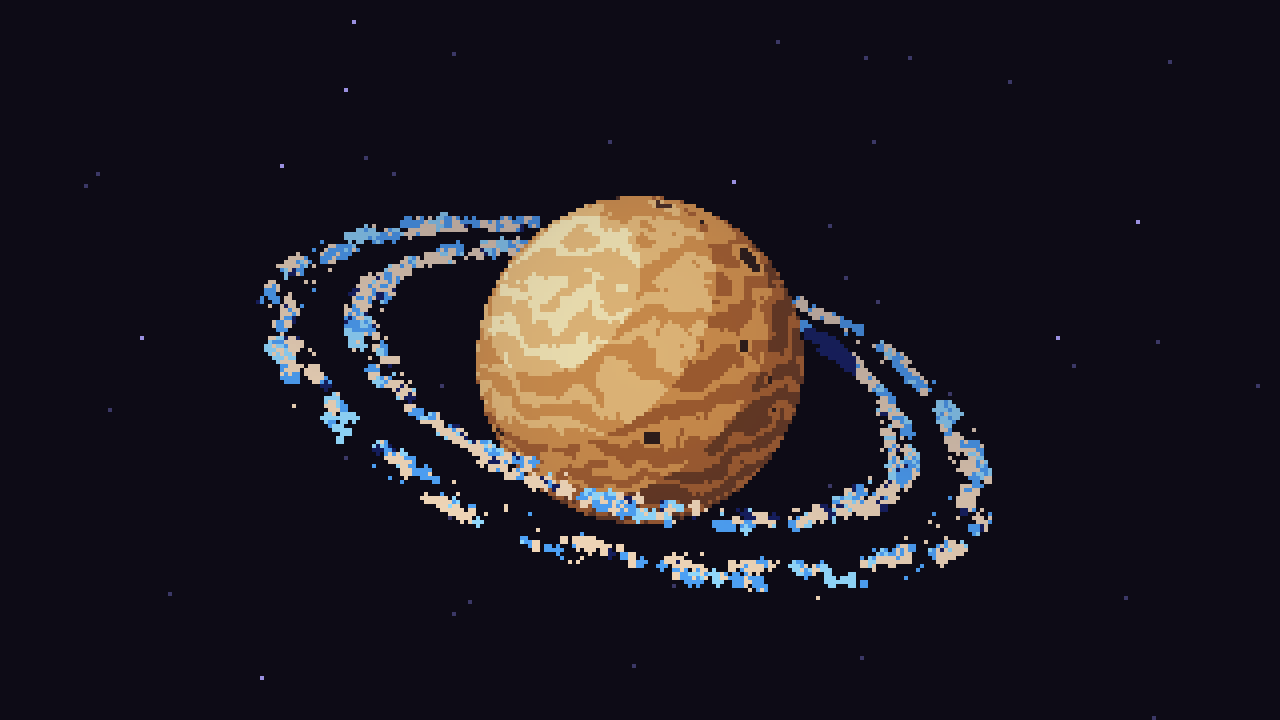
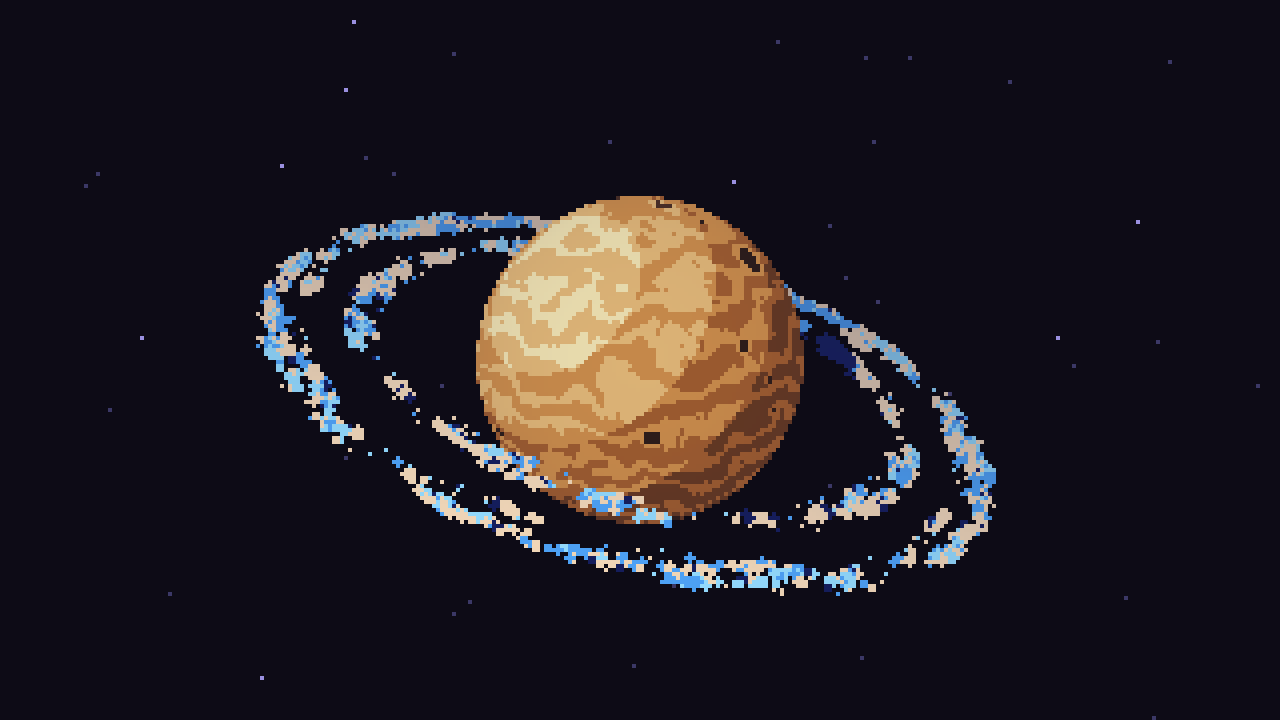
feat(mockup): per-planet ring width and distance, with viewer sliders
Rings get two data values, width (0.03 thread to 1.0 wide belt) and distance
(inner radius 1.2, just above the cloud tops, to 2.8), in planet radii: a
data channel reserved for codebase metrics (mapping TBD). ringLanes() turns
them into lanes. Up to width 0.3 a ring is one lane; past it a Cassini-style
gap opens between two lanes. Clusters scale with lane area, so particle
density is constant. The thin preset (0.22 at 1.69) is the old default ring
exactly (pixel-identical); the wide preset keeps its old lanes at the same
density (15 + 22 clusters instead of 22 + 18). The ring control now picks a
preset for the two sliders. Moon orbits scale out by distance / 1.69 when the
ring is pushed past the default.

test/rings.test.mjs sweeps 5 widths x 3 distances (>= 70% chunky, particles in
bounds, density by area, moons) and renders 4 cases at 180p and 360p: front
arc drawn over the disc, back arc hidden, 1 px dust present, t = 0 equals
t = 24 s, not empty. Adds screenshots/rings-sheet.png (3 x 3 width x
distance on the lush hero); re-renders the variety sheet, the system shot and
the depth GIFs (wide rings changed).

Changed region(s): [[0.2812, 0.3972, 0.7812, 0.825], [0.1875, 0.275, 0.4375, 0.6111], [0.375, 0.6111, 0.4062, 0.6417]]

diff --git a/mockups/asset-viewer/viewer.js b/mockups/asset-viewer/viewer.js
@@ -756,6 +756,24 @@ const ramp5 = () => ({ value: Array.from({ length: 5 }, () => new THREE.Color())
 export const LOOP = { period: 24, surfaceTurns: 2, cloudTurns: 3 };
 const cycle = () => LOOP.period / LOOP.surfaceTurns;
 const RING_SECTORS = 5;
+// Ring geometry, a per-planet data channel (reserved for codebase metrics; mapping TBD), in
+// planet radii: inner = distance of the inner edge (hugging the surface .. far out), width =
+// radial width (a thread .. a wide belt). RING_PRESETS are the ring control's presets: thin is
+// the default look exactly; wide is the old two-lane shared-lib belt at the same density.
+export const RING = { inner: [1.2, 2.8], width: [0.03, 1.0] }; // inner from just above the cloud tops (~1.15 R)
+export const RING_PRESETS = { thin: { inner: 1.69, width: 0.22 }, wide: { inner: 1.54, width: 0.72 } };
+const RING_DENSITY = 15 / (1.91 ** 2 - 1.69 ** 2); // clusters per unit of (outer^2 - inner^2): the thin ring's 15
+// Lanes [centre radius, half-width, clusters] for a ring. Past width 0.3 a gap opens between an
+// inner and an outer lane (a Cassini-style division), growing to 0.2 / 0.72 of the width at 0.72
+// (the wide preset's lanes: 1.54-1.78 and 1.98-2.26).
+// Clusters scale with each lane's area, so particle density is the same at every size.
+export function ringLanes({ inner, width }) {
+  const lane = (r, w) => [r + w / 2, w / 2, Math.max(2, Math.round(RING_DENSITY * ((r + w) ** 2 - r ** 2)))];
+  const gap = width * (0.2 / 0.72) * THREE.MathUtils.clamp((width - 0.3) / 0.42, 0, 1);
+  if (gap === 0) return [lane(inner, width)];
+  const a = (width - gap) * (0.24 / 0.52); // the inner lane is the narrower one (0.24 : 0.28 at 0.72)
+  return [lane(inner, a), lane(inner + a + gap, width - gap - a)];
+}
 
 // Ring debris: chunky points. aType 0 = 1 px, 1 = 2x2 block, 2 = 3x3 plus.
 const RING_VERT = /* glsl */ `
@@ -881,9 +899,11 @@ function makePlanet() {
   const up = new THREE.Vector3(0, 1, 0);
   let built = '';
 
+  let moonReach = 1; // moon orbits scale out with a ring pushed past the thin preset's distance
   // cover: optional override of the biome's WEATHER cover (the viewer's cloud slider).
-  function rebuild(seed, biomeKey = 'lush', ringMode = 'thin', cover = null) {
-    const key = `${seed}|${biomeKey}|${ringMode}|${cover}`;
+  // ringGeo: { inner, width } (RING); defaults to the ringMode preset.
+  function rebuild(seed, biomeKey = 'lush', ringMode = 'thin', cover = null, ringGeo = RING_PRESETS[ringMode]) {
+    const key = `${seed}|${biomeKey}|${ringMode}|${cover}|${ringGeo?.inner}|${ringGeo?.width}`;
     if (key === built) return;
     built = key;
     const biome = BIOMES[biomeKey];
@@ -1039,11 +1059,12 @@ function makePlanet() {
     // clusters, plus sparse 1 px dust. One sector is generated and repeated
     // RING_SECTORS times, so flowing it 1/RING_SECTORS of a turn per loop is seamless.
     // Colour mix: mauve-grey > the planet's own colour > taupe specks.
-    ring.visible = ringMode !== 'off';
+    ring.visible = ringMode !== 'off' && !!ringGeo;
+    moonReach = ring.visible ? Math.max(1, ringGeo.inner / RING_PRESETS.thin.inner) : 1;
     const pts = [];
     const shade = [];
     const type = [];
-    const bands = ringMode === 'wide' ? [[1.66, 0.12, 22], [2.12, 0.14, 18]] : [[1.8, 0.11, 15]];
+    const bands = ring.visible ? ringLanes(ringGeo) : [];
     const sector = (Math.PI * 2) / RING_SECTORS;
     const pick = () => { const v = rnd(); return v < 0.5 ? 1 : v < 0.8 ? 2 : 3; };
     const one = [];
@@ -1091,7 +1112,8 @@ function makePlanet() {
     ring.rotation.y = -turn / RING_SECTORS; // debris flow: one sector per surface turn
     for (const m of MOONS) {
       const a = turn + m.offset * Math.PI * 2; // one orbit per surface turn; no easing
-      const p = new THREE.Vector3(Math.cos(a) * m.orbit, -Math.sin(a) * m.orbit * Math.sin(m.incl), Math.sin(a) * m.orbit * Math.cos(m.incl));
+      const orbit = m.orbit * moonReach;
+      const p = new THREE.Vector3(Math.cos(a) * orbit, -Math.sin(a) * orbit * Math.sin(m.incl), Math.sin(a) * orbit * Math.cos(m.incl));
       m.mesh.position.copy(p.applyAxisAngle(up, m.yaw));
     }
     group.updateMatrixWorld(true);
@@ -1472,7 +1494,7 @@ const SYSTEM = [
   { biome: 'toxic', seed: 13, size: 1.1, ring: 'off', pos: [13, 1.2, -36] },
 ].map((cfg) => {
   const p = makePlanet();
-  p.rebuild(cfg.seed, cfg.biome, cfg.ring);
+  p.rebuild(cfg.seed, cfg.biome, cfg.ring); // ring geometry: the preset of cfg.ring
   p.group.position.set(...cfg.pos);
   p.group.scale.setScalar(cfg.size);
   scene.add(p.group);
@@ -1492,6 +1514,7 @@ const VIEWS = {
 // ---------------------------------------------------------------- state
 const state = {
   view: 'planet', seed: 7, biome: 'lush', size: 1, ringMode: 'thin', color: 'coral', pixelH: 180, depth: true, spin: true,
+  ringInner: RING_PRESETS.thin.inner, ringWidth: RING_PRESETS.thin.width, // ring geometry (RING); the ring control sets a preset
   time: null, ui: true, palette: 'final', eyes: 'auto', period: 24, surfaceTurns: 2, cloudTurns: 3, moons: true, halo: false, cloudShadow: true,
   depthMode: 'pixel-smooth', // DEPTH_MODES (the human's pick)
   depthBands: '3-band', // DEPTH_BANDS (per-pixel modes)
@@ -1527,6 +1550,12 @@ function resize() {
 }
 
 let lastPixelDepth = null;
+// The ring control picks a preset: it resets the width and distance sliders to that preset.
+function ringPreset() {
+  const pre = RING_PRESETS[state.ringMode];
+  if (pre) Object.assign(state, { ringInner: pre.inner, ringWidth: pre.width });
+}
+
 function applyState() {
   LOOP.period = Math.max(1, state.period);
   LOOP.surfaceTurns = Math.max(1, Math.round(state.surfaceTurns));
@@ -1537,7 +1566,7 @@ function applyState() {
   SYSTEM.forEach((p, i) => p.setExtras({ moons: i === 0 && state.moons, halo: state.halo, ...art }));
   controls.minDistance = minOrbit();
   planets.forEach((p) => {
-    p.rebuild(state.seed, state.biome, state.ringMode, state.cover);
+    p.rebuild(state.seed, state.biome, state.ringMode, state.cover, { inner: state.ringInner, width: state.ringWidth });
     p.group.scale.setScalar(state.size);
   });
   // Which objects a view shows: showcase (hero + depth copies + crew), solo planet, or the system.
@@ -1577,6 +1606,11 @@ function applyState() {
     a.setFace(state.eyes === 'auto' ? eyesFor(HANDLES[a.userData.color ?? state.color]) : +state.eyes);
   }
   document.getElementById('ui').hidden = !state.ui;
+  for (const [id, key] of [['ring-width', 'ringWidth'], ['ring-inner', 'ringInner']]) {
+    document.getElementById(id).value = Math.round(state[key] * 100);
+    document.getElementById(id).disabled = state.ringMode === 'off';
+    document.getElementById(`${id}-readout`).textContent = state[key].toFixed(2);
+  }
   const weather = WEATHER[BIOMES[state.biome].weather];
   const cov = document.getElementById('cover');
   cov.disabled = !weather;
@@ -1612,7 +1646,12 @@ function bindUi() {
   for (const b of document.querySelectorAll('[data-view]')) b.addEventListener('click', () => { state.view = b.dataset.view; applyView(state.view); applyState(); });
   $('seed').addEventListener('input', (e) => { state.seed = +e.target.value; $('seed-readout').textContent = state.seed; applyState(); });
   $('reseed').addEventListener('click', () => { state.seed = 1 + Math.floor(Math.random() * 999); $('seed').value = state.seed; $('seed-readout').textContent = state.seed; applyState(); });
-  $('ring').addEventListener('change', (e) => { state.ringMode = e.target.value; applyState(); });
+  $('ring').addEventListener('change', (e) => { state.ringMode = e.target.value; ringPreset(); applyState(); });
+  for (const [id, key] of [['ring-width', 'ringWidth'], ['ring-inner', 'ringInner']]) {
+    const [lo, hi] = RING[key === 'ringWidth' ? 'width' : 'inner'];
+    Object.assign($(id), { min: lo * 100, max: hi * 100, value: state[key] * 100 });
+    $(id).addEventListener('input', (e) => { state[key] = +e.target.value / 100; applyState(); });
+  }
   for (const [key, b] of Object.entries(BIOMES)) $('biome').add(new Option(b.label, key));
   $('biome').addEventListener('change', (e) => { state.biome = e.target.value; state.cover = null; applyState(); });
   $('cover').addEventListener('input', (e) => { state.cover = +e.target.value / 100; applyState(); });
@@ -1661,6 +1700,7 @@ window.viewer = {
   ready: true,
   set(opts) {
     Object.assign(state, opts);
+    if (opts.ringMode && opts.ringInner === undefined && opts.ringWidth === undefined) ringPreset(); // a ring mode alone means its preset
     if (opts.view) applyView(opts.view);
     if (opts.camera) {
       camera.position.set(...opts.camera.pos);

diff --git a/mockups/asset-viewer/index.html b/mockups/asset-viewer/index.html
@@ -32,6 +32,8 @@
     <div class="row"><button id="reseed">new planet</button></div>
     <label>clouds <span id="cover-readout">27%</span><input id="cover" type="range" min="0" max="45" value="27"></label>
     <label>ring <select id="ring"><option value="off">off</option><option value="thin" selected>thin</option><option value="wide">wide (shared lib)</option></select></label>
+    <label>&nbsp;width <span id="ring-width-readout">0.22</span><input id="ring-width" type="range" step="1"></label>
+    <label>&nbsp;distance <span id="ring-inner-readout">1.69</span><input id="ring-inner" type="range" step="1"></label>
     <label>eyes <select id="eyes"><option value="auto">auto (handle)</option></select></label>
     <label>contributor <select id="color"><option value="coral">coral</option><option value="mint">mint</option><option value="lilac">lilac</option></select></label>
     <label>pixel h <input id="pixel" type="range" min="120" max="480" value="180"></label>

diff --git a/mockups/asset-viewer/README.md b/mockups/asset-viewer/README.md
@@ -12,7 +12,7 @@ npm run dev      # http://127.0.0.1:5180/  (loopback only; PORT=... to change)
 npm run shots    # re-capture screenshots/ in headless Chromium (no server, no network)
 npm run palettes # 25 Lospec-palette renders + labelled contact sheet in screenshots/palettes/
 npm run planets  # variety sheet, system shot, hero-loop.gif, artefacts-loop.gif, cloud-drift-24s/36s.gif, colour counts + loop-seam tests
-npm test         # cloud regression tests: puff handedness (det > 0), hollow-ring renders (32 framings + 12 hero-loop frames; LOOP_FRAMES=48 for all), shading direction (follows the mass dome), CPU/GPU simplex, Voronoi-cell and pool-field parity; artefacts: off = pixel-identical, on = visible, deterministic, loop-locked; cloud shadow: no phantoms, drifts with the clouds; depth: object mode unchanged, pixel-stepped splits a straddling planet; lava/ice line width ≥ 2 px and a ground / crack / open mix
+npm test         # cloud regression tests: puff handedness (det > 0), hollow-ring renders (32 framings + 12 hero-loop frames; LOOP_FRAMES=48 for all), shading direction (follows the mass dome), CPU/GPU simplex, Voronoi-cell and pool-field parity; artefacts: off = pixel-identical, on = visible, deterministic, loop-locked; cloud shadow: no phantoms, drifts with the clouds; depth: object mode unchanged, pixel-stepped splits a straddling planet; lava/ice line width ≥ 2 px and a ground / crack / open mix; rings: width × distance sweep (chunky share, bounds, density, moons), front arc over the disc, 1 px dust, loop-locked
 ```
 
 `node shots.mjs depth-scene crew-closeup` captures just the named shots.
@@ -27,7 +27,8 @@ npm test         # cloud regression tests: puff handedness (det > 0), hollow-rin
 | size | Planet scale, 0.25–2.2 (size stands for LOC) |
 | seed, new planet | Regenerates land, sea level, cloud heaps and ring dust. All three planet copies share the seed |
 | clouds | Cloud cover (share of the visible disc, 0–45%) for the hero planets. Defaults to the biome's `WEATHER.cover` and resets when the biome changes |
-| ring | off, thin, or wide. Wide marks a shared lib; rings are a modifier on any biome |
+| ring | off, thin, or wide: presets that set the two sliders below. Wide marks a shared lib; rings are a modifier on any biome |
+| width, distance | Ring **width** (0.03 thread → 1.0 wide belt) and **distance** (inner radius, 1.2 just above the cloud tops → 2.8 far out), in planet radii (`RING` in `viewer.js`). Per-planet data values reserved for codebase metrics (mapping TBD). Defaults are the thin preset, 0.22 at 1.69 |
 | contributor | Sets the backpack-stripe, shoulder-band and face colour of the solo astronauts in the depth scene. The crew line-up always shows all three |
 | eyes | One of the 10 V2 eye designs for every astronaut; `auto` hashes it from the contributor's handle |
 | pixel h | Internal height from 120 to 480. Width is 16:9, and the canvas is upscaled by the largest integer factor that fits, with nearest-neighbour filtering |
@@ -49,7 +50,7 @@ npm test         # cloud regression tests: puff handedness (det > 0), hollow-rin
 - **Shading**: toon bands. `dot(normal, light)` picks one of four ramp entries, so each surface is made of flat colour bands. The key light comes from the top left, about 40° off the default view, which gives Planetarium's concentric crescents.
 - **Planet**: a sphere whose shader uses 3D simplex fbm for land and ocean, with shallow-water and highland steps and noisy polar caps.
 - **Clouds**: each puff instance is built on a right-handed tangent frame (`cloud-frame.js`, det > 0, with a pole fallback). A mirrored instance gets back-face culled into a hollow ring; `npm test` guards this. Instanced icosphere puffs are squashed to 60% along the radial axis and **float** a small gap above the terrain (`WEATHER.float`, bases at about r = 1.05), so the clouds read as a separate layer that still bulges past the silhouette. **Mass shading:** the cloudy sites are joined into masses (union-find over neighbours), and each puff carries its mass's anchor, a point below the mass centre by about the mass radius. The shading normal is a scalar blend of the mass dome (anchor → fragment, a continuous field, so neighbouring puffs agree and internal seams vanish), the planet radial and a little of the puff's own normal for a lumpy edge; parts that point into the puff are dropped so undersides stay shaded. Puffs are at least ~0.06 R, wider than half the site spacing, so the puffs in a mass always overlap into one clump. **Cloud shadow:** the same instances, projected along the light onto the planet and drawn as the terrain one light band darker (shadows that would reach more than 0.1 R from their cloud, near the terminator, are dropped). Placement is noise-driven, like Planetarium. A mid-frequency fbm field makes several merged masses, and a latitude-stretched field makes long east-west streaks. Wherever both fields are low the sky stays clear. Cover is a **quantile**, not a fixed threshold: the densest `cover × gain` share of the sky sites get weather, so every seed lands near the same cover. `WEATHER` in `viewer.js` is the one place to tune it per biome (`gain` converts site share to disc share for that weather's puff size; smaller puffs get denser sites so masses stay solid). Denser spots get bigger, higher puffs, so cores merge and dome past the silhouette, and a few small strays scatter at the edges of the weather. Every puff gets at least one smaller satellite beside it, and thin weather and strays get 2–3, so no lone sphere reads as a white ball. The cloud layer turns `cloudTurns` per loop against the surface's `surfaceTurns`, so it slides over the terrain.
-- **Ring**: one thin band of 1,500 points, densest in the middle. Every dot is exactly 1 internal pixel at every resolution. Points in the planet's shadow use the darkest ring colour.
+- **Ring**: clustered chunky debris (≥ 70% 2×2 and plus clumps, the rest 1 px dust; every dot is exactly 1 internal pixel at every resolution). Points in the planet's shadow use the darkest ring colour. Geometry comes from two data values, **width** and **distance** (`ringLanes()`): up to width 0.3 the ring is one lane; past it a gap opens between an inner and an outer lane (a Cassini-style division, 0.2 / 0.72 of the width at 0.72). Clusters scale with each lane's area (the thin ring's 15 clusters per its area), so density is the same at any size. The thin preset (0.22 at 1.69) is the previous default ring exactly; the wide preset (0.72 at 1.54) keeps the old lanes (1.54–1.78 and 1.98–2.26) at the same density, so its lanes now have 15 and 22 clusters instead of 22 and 18. When the ring is pushed past 1.69, the moon orbits scale out by `distance / 1.69`, so they keep their place relative to the ring. `npm test` (`test/rings.test.mjs`) sweeps the sliders (chunky share, bounds, density, moons) and renders: the front arc over the disc, no back arc over it, 1 px dust at 180p and 360p, and a seamless loop.
 - **Astronaut**: one signed-distance body, raymarched inside a proxy box and composited with `gl_FragDepth`. It's made from primitives in chibi proportions: a helmet sphere (about the top 55%), a short torso, a rounded-box torso, a backpack wider than the torso, mitts and boots. Each arm and leg is one continuous bent tube (shoulder→elbow→wrist, hip→knee→ankle), smooth-unioned so the bend has no seam. Elbows and knees are softly bent, and they flex with the idle bob. Because it is one surface, one lighting pass shades the whole body. Cast shadows (arm on torso, helmet on shoulders) and contact occlusion come from marching the same field toward the light, then snapping to the 4-step suit ramp. The suit is a cool white. The visor is a ~4:3 rounded-rect "screen" (a superellipse in yaw and pitch) with a gear-tone bezel, in two near-black blue tones plus a fixed 3 px monitor-style glint in the screen's top-left corner, clear of the face. **Contributor colour** is on the backpack stripe and a band around each upper arm (shoulder bands), so it's readable from any angle.
 - **Faces** (`faces.js`): the ApprenticeHack Avatar V2 eye designs, eyes only. There are 10: dots, cyclops, visor slit, binocular, three eyes, happy, LED bar, heartbeat, slant and X eyes. They are evaluated **analytically per fragment** as 2D SDFs in visor-screen space (`EYES_GLSL`, inside the astronaut shader), so they are resolution-independent: the normal internal-resolution render pixelates them like the rest of the model. Geometry follows `js/avatar-v2.js`: `s` is a 32×24 screen box and `e = min(s.h, s.w*0.5)*1.12`, with the same offsets, radii and round-cap strokes. Eyes are centred on the 4:3 screen and glow, unlit, in the contributor colour; pupils (cyclops, binocular) cut back to the visor colour. One deviation: `happy` uses a thinner stroke (e*0.11) than the source. The design comes from ApprenticeHack's `hashStr(handle + 'e')`: `@caden` gets visor slit, `@mira` gets dots and `@juno` gets X eyes. Each astronaut blinks every ~4.3 s with a quick, staggered Y-squash (`uBlink`). A small fixed glint sits in the screen's top-left corner, clear of the eyes.
 - **Artefacts** (`artefacts.js`, ported from the ASCII FX round 2 pick, concept 3 "planet artefacts" in its filter form; `feature/ascii-fx` 29c64a1): `ARTEFACTS_GLSL` runs inside the planet surface shader, whose colour is now a `surface(p, band)` function. Sectors are fixed directions in the planet's own frame, so they turn with it and pass under the clouds. Each sector is a screen-aligned grid of 6 px glyph cells (×2 at 360p) anchored at its projected centre, squashed by how much it faces the camera. Every cell calls `surface()` again: a bug glyph in the terrain's inverted lightness on a darker band, a flat terrain block, terrain moshed in from elsewhere, flipped light bands, or torn rows. Changes from the reference: projection, sector size and cell scale are worked out in the shader, so it works for any planet and camera (planets under 12 px radius are skipped); sector longitudes step by the golden angle so one usually faces the camera; and a glyph that would vanish into its band (lava's near-black crust) switches to inverted lightness, so lava stays legible. Glitches re-roll on a loop-locked tick (180 per surface turn; every per-cell rate, 2–6 ticks, divides it). With artefacts off the output is pixel-identical to the shader without them (`npm test`).
@@ -201,6 +202,7 @@ Every tile is the same shot: the `depth` view (crew in front, hero planet, then 
 | `screenshots/pixel-120.png` | Chunkier pixels: 213×120 ×6 |
 | `screenshots/pixel-360.png` | Finer pixels: 640×360 ×2 |
 | `screenshots/palettes/contact-sheet.png` | The 25 palettes, 5×5, numbered and labelled; `NN-<slug>.png` are the full-size frames |
+| `screenshots/rings-sheet.png` | Ring width (rows: thread 0.04, default 0.22, wide belt 0.72) × distance (columns: 1.25 hugging, 1.69 default, 2.6 far) on the lush hero with moons; the centre tile is the default |
 | `screenshots/planets/variety-sheet.png` | Every biome (and extra) × 3 seeds in the final palette, S/M/L/XL sizes, rings as a modifier; `planets/<biome>-<seed>.png` are the full frames |
 | `screenshots/planets/hero-loop.gif` | 24 s seamless loop of the lush hero planet with moons and ring (surface 2 turns, clouds 3) |
 | `screenshots/planets/cloud-drift-24s.gif`, `cloud-drift-36s.gif` | The two cloud-drift options: 24 s at 2:3 (default) and 36 s at 3:4, 15 fps |
